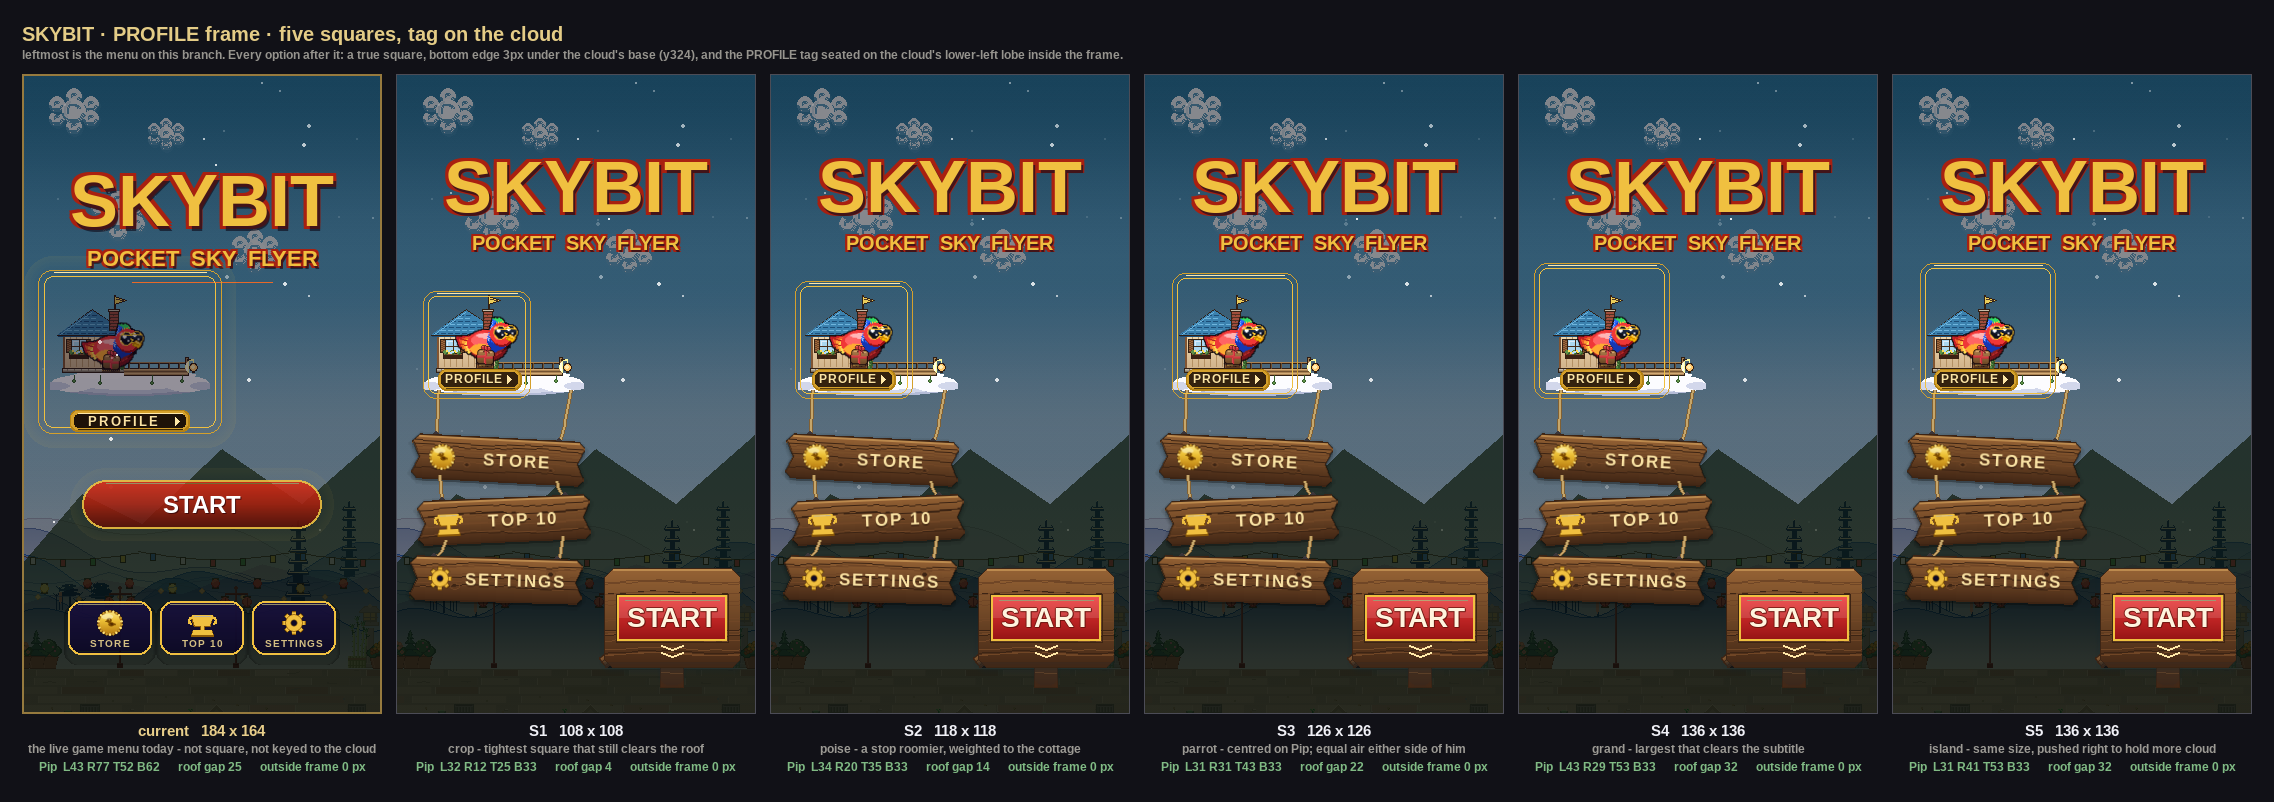
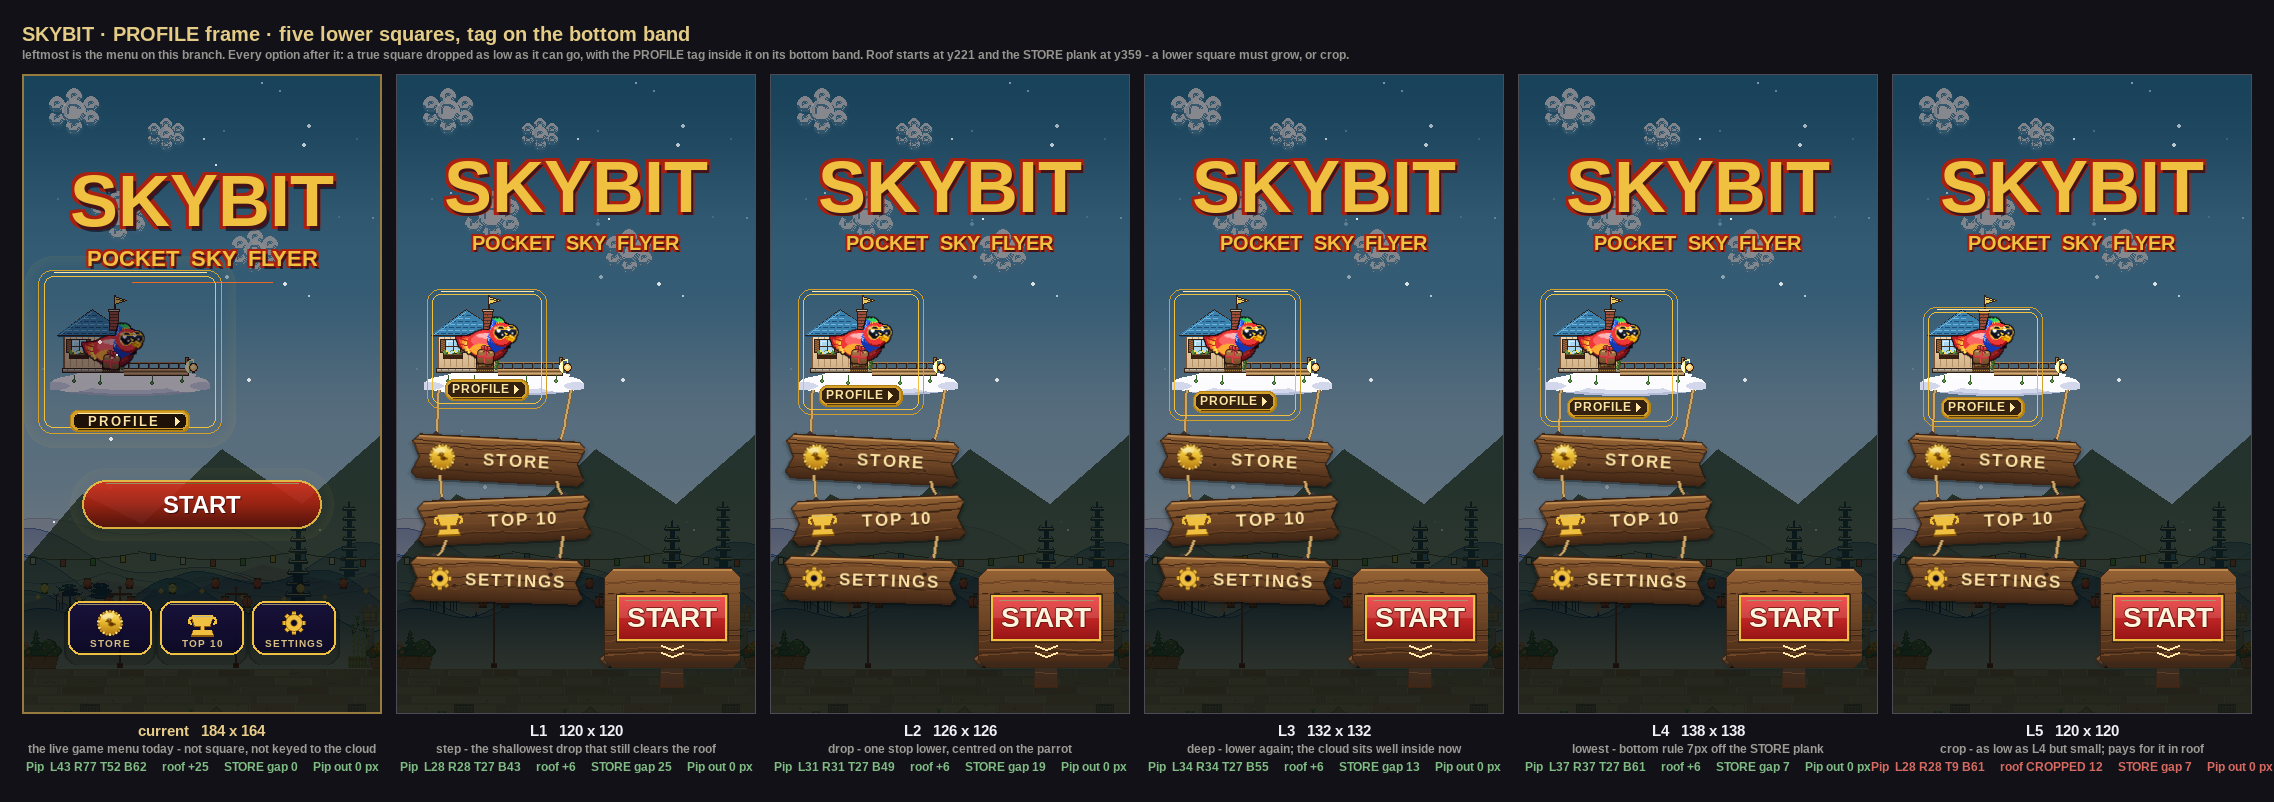
harbour-post: drop the whole frame lower, tag onto its bottom band
The tag comes off the cloud and sits inside the frame's own bottom band, and
every square moves down with it.

How far down is not a free choice. The cottage roof starts at y221 and the
STORE plank's rotated bbox starts at y359, so a square pinned just over the
roof can only reach further down by growing: 120 -> 138 across L1..L4, bottoms
y334 -> y352, STORE clearance 25px -> 7px. L5 is the alternative — as low as L4
but still 120 wide, which costs 12px of roof. There is no fifth way to be both
low and small.

All five are now centred on Pip (cx 91), so his side margins come out equal in
each: 28/28, 31/31, 34/34, 37/37, 28/28. No clipping of his silhouette.

Because the bottom rule now runs below the cloud it crosses the left rope
column once in every option; the right column stays outside even L4's x159
edge. The tag keeps 7px off the rope, measured on its painted pixels rather
than its rect, and holds 3px inside the inner gold rule.

Claude-Session: https://claude.ai/code/session_01HZruNdjCPrRs3WrJUvXQLo

diff --git a/tools/menu-design/profile_frame_square.py b/tools/menu-design/profile_frame_square.py
@@ -38,19 +38,11 @@ GOLD_MID, GOLD_BRIGHT, GOLD_PALE = B.GOLD_MID, B.GOLD_BRIGHT, B.GOLD_PALE
 GOLD_DEEP = B.GOLD_DEEP
 W, H = 360, 640
 
-BOTTOM = 324          # 3px under the cloud's measured base (y321)
+ROOF = 221            # cottage roof top — a frame below this crops it
+STORE_TOP = 359       # STORE plank's rotated bbox — the floor for any drop
 
-# The tag rides the cloud's lower-left lobe, inside the frame, rather than
-# hanging under it. One fixed rect for all five: it is anchored to the cloud,
-# which never moves, so the tag reads as pinned to the same spot however the
-# square around it is sized.
-#
-# The cloud is a lens, not a box. Its left edge runs x40 at y296, pinches to
-# x55 at y299, opens to x28 by y306, holds that to y315, then closes fast —
-# x38 at y316, x66 at y320. So the lowest a left-anchored tag can sit and stay
-# on cloud mass is a bottom edge at y316, and the 8px corner radius carries the
-# top-left arc over the y299-302 pinch.
-TAG = pygame.Rect(42, 295, 84, 22)
+TAG_W, TAG_H = 84, 22
+TAG_CX_MIN = 88       # keeps the tag's left edge off the x42 rope column
 
 
 def _sq(left, top, side):
@@ -58,18 +50,32 @@ def _sq(left, top, side):
 
 
 # slug: (rect, thesis)
+#
+# All five sit LOWER than the previous round, with the tag moved off the cloud
+# and down onto the frame's own bottom band. Two hard edges bracket how low a
+# square can go: the cottage roof starts at y221, and the STORE plank's rotated
+# bbox starts at y359. A frame that drops must therefore either grow — its top
+# is pinned just over the roof while its bottom runs down — or crop the roof.
+# L1-L4 grow; L5 is the one that crops, and is the only way to be both low and
+# small.
 PRESETS = {
-    "S1": (_sq(27, 217, 108), "crop - tightest square that still clears the roof"),
-    "S2": (_sq(25, 207, 118), "poise - a stop roomier, weighted to the cottage"),
-    "S3": (_sq(28, 199, 126), "parrot - centred on Pip; equal air either side of him"),
-    "S4": (_sq(16, 189, 136), "grand - largest that clears the subtitle"),
-    "S5": (_sq(28, 189, 136), "island - same size, pushed right to hold more cloud"),
+    "L1": (_sq(31, 215, 120), "step - the shallowest drop that still clears the roof"),
+    "L2": (_sq(28, 215, 126), "drop - one stop lower, centred on the parrot"),
+    "L3": (_sq(25, 215, 132), "deep - lower again; the cloud sits well inside now"),
+    "L4": (_sq(22, 215, 138), "lowest - bottom rule 7px off the STORE plank"),
+    "L5": (_sq(31, 233, 120), "crop - as low as L4 but small; pays for it in roof"),
 }
-
-
 def tag_for(fr):
-    """Same seat on the cloud for every option — see TAG."""
-    return pygame.Rect(TAG)
+    """On the frame's own bottom band, inside it, clear of the inner rule.
+
+    Centred on the frame, then pushed right off the left rope: the rope leaves
+    the cloud at x42/y316 and runs down to the STORE plank, so a tag centred on
+    a left-leaning square would sit on it.
+    """
+    t = pygame.Rect(0, 0, TAG_W, TAG_H)
+    t.centerx = max(fr.centerx, TAG_CX_MIN)
+    t.bottom = fr.bottom - 8
+    return t
 
 
 def draw_frame(surf, fr, tag):
@@ -152,6 +158,8 @@ def shipped_stats(fr, px):
              min(ys) - fr.top, fr.bottom - 1 - max(ys)),
         cottage=(0, 0, B.house_cottage_rect().top - fr.top),
         below_cloud=fr.bottom - 1 - (B.cloud_rect().bottom - 1),
+        roof_crop=max(0, fr.top - ROOF),
+        store_clear=STORE_TOP - (fr.bottom - 1),
     )
 
 
@@ -255,8 +263,9 @@ def verify(slug, pip=None, sub=None):
     px = [x for x, y in pip]
     py = [y for x, y in pip]
 
-    # The ropes only exist below their y316 cloud anchors, so only the tag's
-    # bottom rows can foul them.
+    # The ropes only exist below their y316 cloud anchors, and the 8px corner
+    # radius pulls the tag's end rows inside its rect, so measure the PAINTED
+    # pixels — the rect overstates the tag's reach.
     shape = pygame.Surface((W, H), pygame.SRCALPHA)
     pygame.draw.rect(shape, (255, 255, 255), tag, border_radius=8)
     worst = float("inf")
@@ -274,12 +283,10 @@ def verify(slug, pip=None, sub=None):
     fit = min(tag.left - inner.left, inner.right - 1 - (tag.right - 1),
               tag.top - inner.top, inner.bottom - 1 - (tag.bottom - 1))
 
-    house = B._intro.get_sprite("skyhouse_post")
-    hx, hy = B.house_topleft()
-    lay = pygame.Surface((W, H), pygame.SRCALPHA)
-    lay.blit(house, (hx, hy))
-    on = sum(1 for x in range(tag.left, tag.right)
-             for y in range(tag.top, tag.bottom) if lay.get_at((x, y))[3] > 8)
+    # The frame's own bottom rule now runs below the cloud, so it crosses the
+    # rope columns; report where rather than pretending it does not.
+    crossings = sum(1 for sgn in (-1, 1)
+                    if fr.left <= _rope_x(sgn, fr.bottom - 1) <= fr.right - 1)
     return dict(
         side=(fr.width, fr.height),
         square=fr.width == fr.height,
@@ -290,17 +297,18 @@ def verify(slug, pip=None, sub=None):
         cottage=(cot.left - fr.left, fr.right - 1 - (cot.right - 1),
                  cot.top - fr.top),
         below_cloud=fr.bottom - 1 - (cloud.bottom - 1),
-        cloud_spill_r=max(0, (cloud.right - 1) - (fr.right - 1)),
+        roof_crop=max(0, fr.top - ROOF),
+        store_clear=STORE_TOP - (fr.bottom - 1),
         subtitle_clear=fr.top - sub,
+        rope_crossings=crossings,
         tag_inside_frame=fit,
-        tag_on_cloud="%d%%" % round(100 * on / (tag.width * tag.height)),
         tag_rope_clear=None if worst is None else round(worst, 1),
-        tag_clears_pip=min(y for x, y in pip) if False else tag.top - max(py),
+        tag_clears_pip=tag.top - max(py),
     )
 
 
 if __name__ == "__main__":
-    order = ["S1", "S2", "S3", "S4", "S5"]
+    order = ["L1", "L2", "L3", "L4", "L5"]
     pip, sub = _pip_pixels(), _subtitle_bottom()
     stats = {s: verify(s, pip, sub) for s in order}
 
@@ -322,11 +330,11 @@ if __name__ == "__main__":
         sheet = pygame.Surface((PAD * 2 + n * CW + (n - 1) * GAP,
                                 PAD * 2 + HEAD + CH + LAB))
         sheet.fill((17, 17, 23))
-        sheet.blit(fh.render("SKYBIT · PROFILE frame · five squares, tag on the cloud",
+        sheet.blit(fh.render("SKYBIT · PROFILE frame · five lower squares, tag on the bottom band",
                              True, (228, 204, 134)), (PAD, PAD))
         sheet.blit(fs.render(
-            "leftmost is the menu on this branch. Every option after it: a true square, bottom edge 3px under "
-            "the cloud's base (y324), and the PROFILE tag seated on the cloud's lower-left lobe inside the frame.",
+            "leftmost is the menu on this branch. Every option after it: a true square dropped as low as it can go, "
+            "with the PROFILE tag inside it on its bottom band. Roof starts at y221 and the STORE plank at y359 - a lower square must grow, or crop.",
             True, (150, 148, 142)), (PAD, PAD + 26))
 
         y = PAD + HEAD
@@ -344,9 +352,12 @@ if __name__ == "__main__":
             sheet.blit(t, t.get_rect(midtop=(x + CW // 2, y + CH + 8)))
             c = fs.render(thesis, True, (156, 154, 148))
             sheet.blit(c, c.get_rect(midtop=(x + CW // 2, y + CH + 28)))
-            bad = st["clip_px"] > 0
-            m = "Pip  L%d R%d T%d B%d      roof gap %d      outside frame %d px" % (
-                *st["pip"], st["cottage"][2], st["clip_px"])
+            bad = st["clip_px"] > 0 or st["roof_crop"] > 0
+            m = ("Pip  L%d R%d T%d B%d     roof %s     STORE gap %d     Pip out %d px"
+                 % (*st["pip"],
+                    ("CROPPED %d" % st["roof_crop"]) if st["roof_crop"]
+                    else "+%d" % st["cottage"][2],
+                    st["store_clear"], st["clip_px"]))
             c2 = fs.render(m, True, (214, 106, 96) if bad else (128, 186, 132))
             sheet.blit(c2, c2.get_rect(midtop=(x + CW // 2, y + CH + 46)))
 
@@ -357,7 +368,7 @@ if __name__ == "__main__":
         print("saved", out, sheet.get_size())
         order = ["current"] + order
     else:
-        which = os.environ.get("OPTION", "S3")
+        which = os.environ.get("OPTION", "L3")
         out = os.environ.get("OUT", "/tmp/_pfsq_%s.png" % which)
         pygame.image.save(build(float(os.environ.get("PHASE", "0.20")), which), out)
         print("saved", out)
